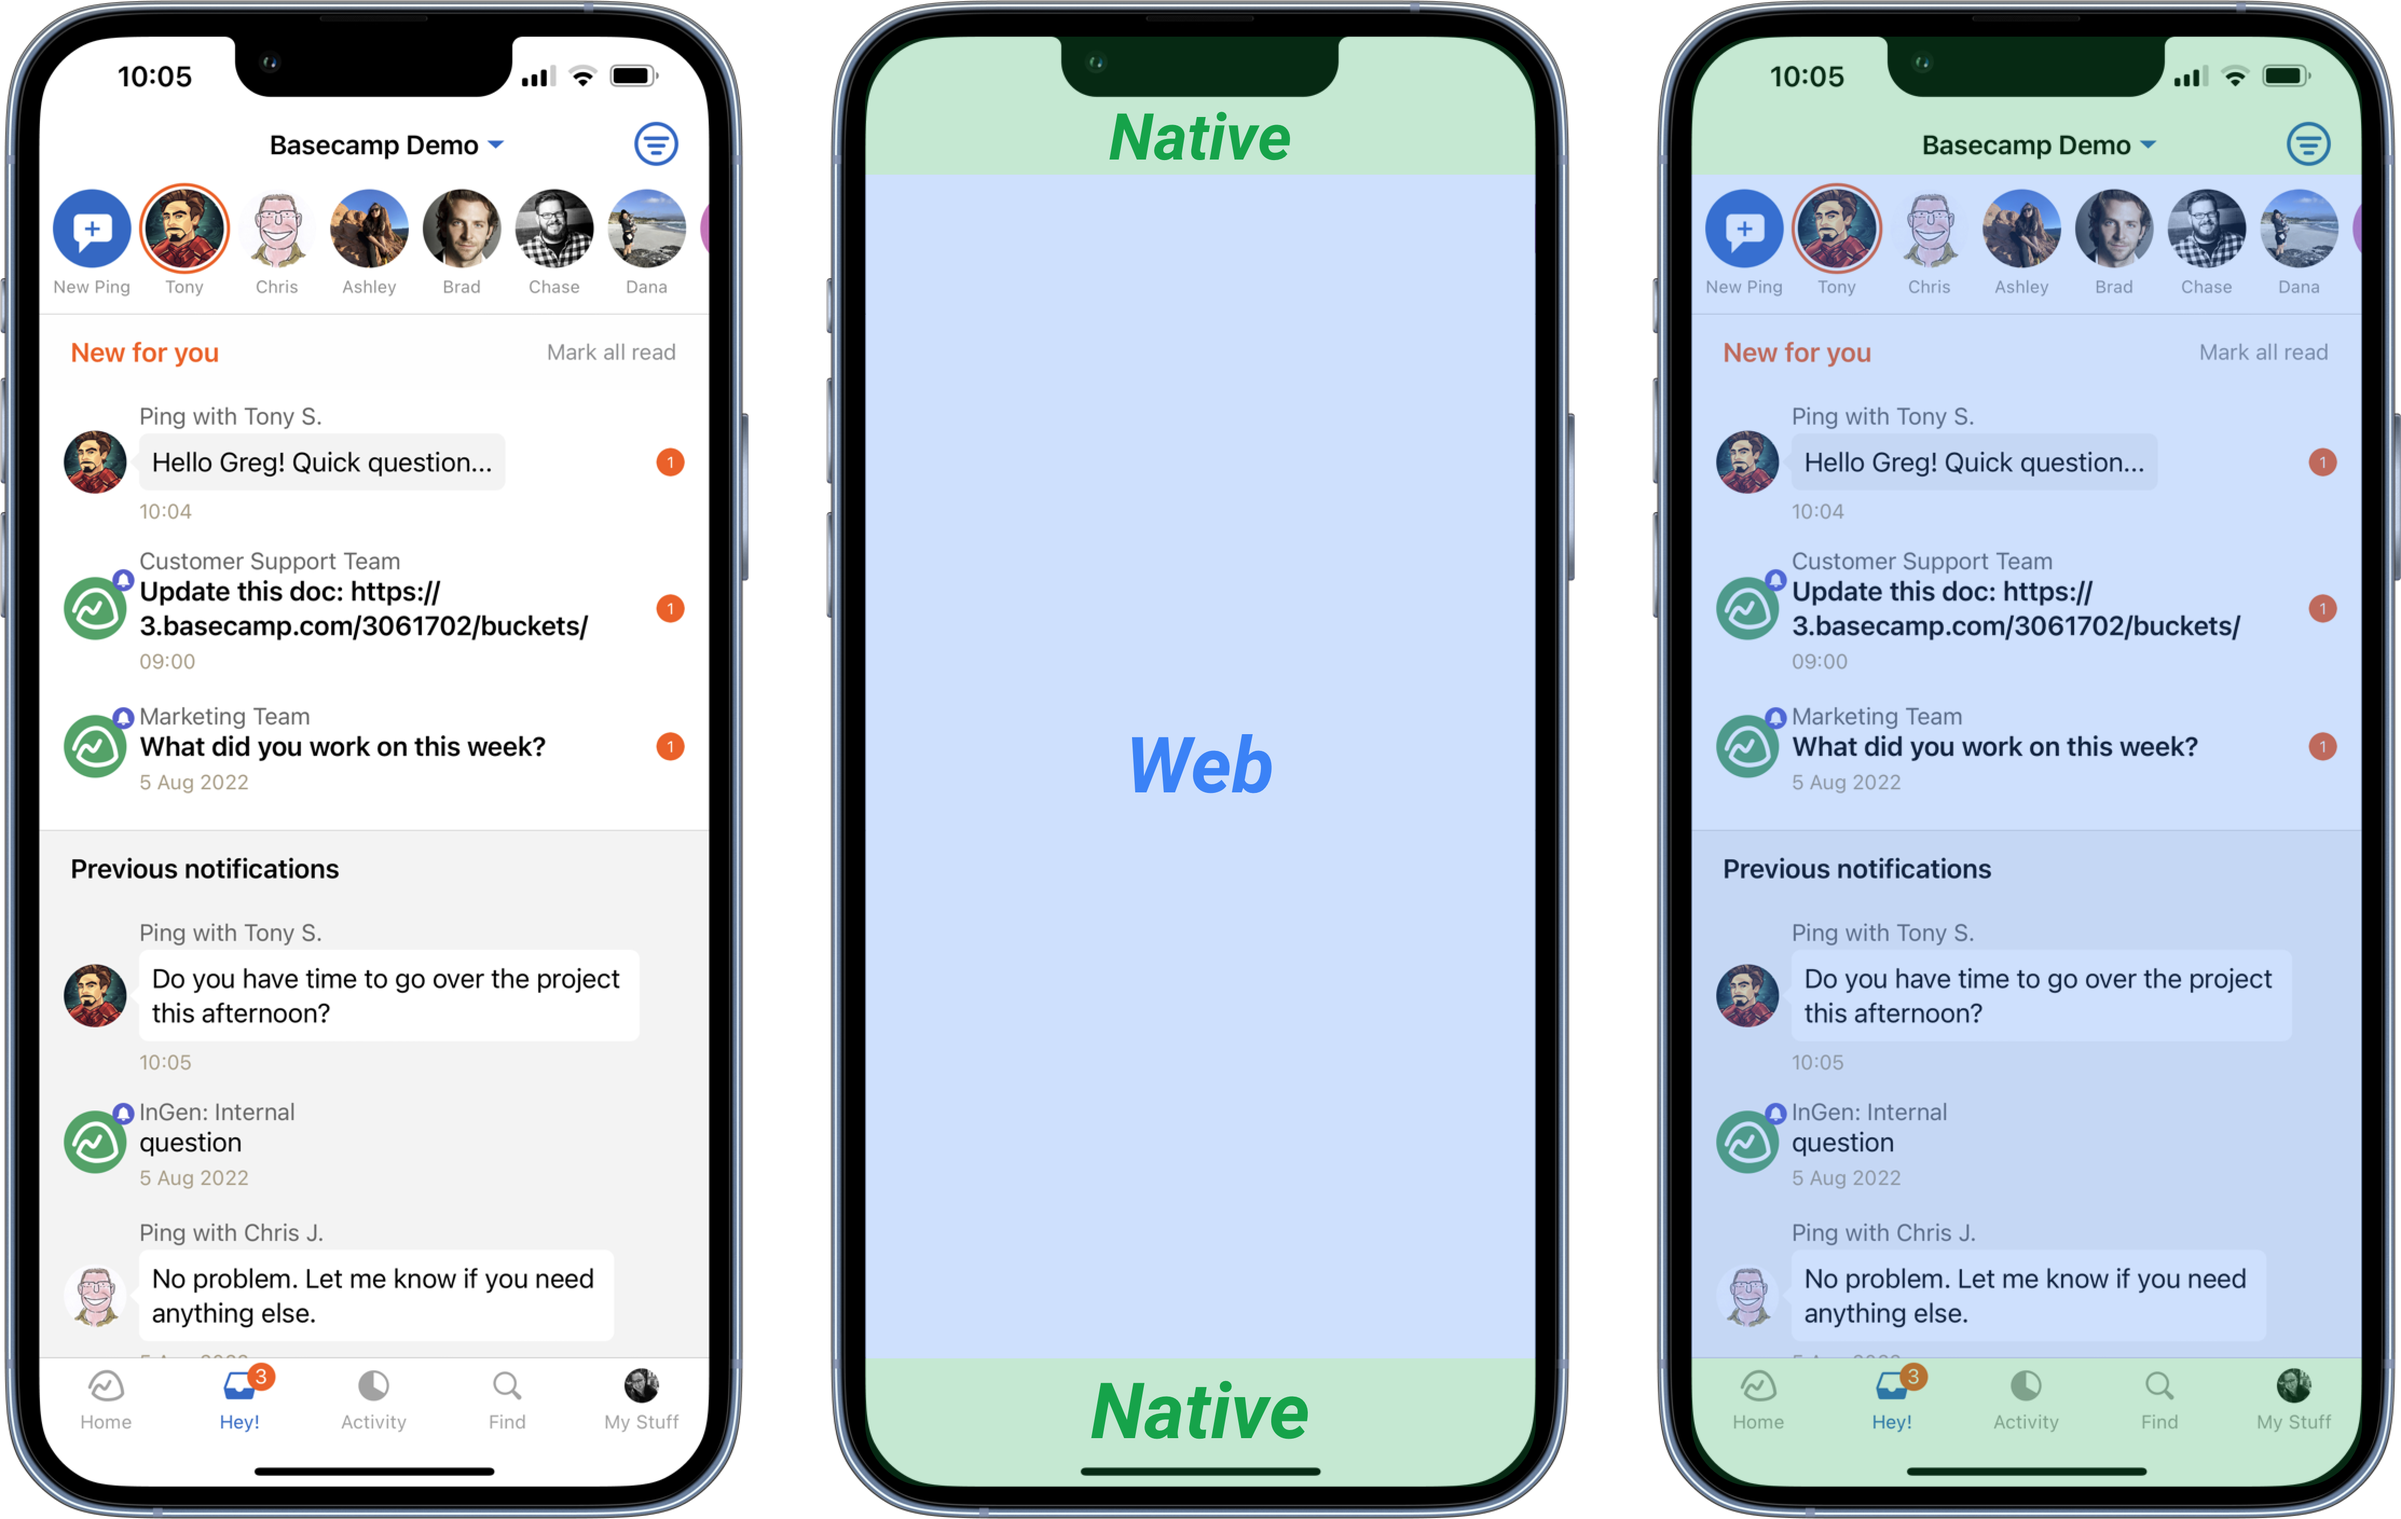
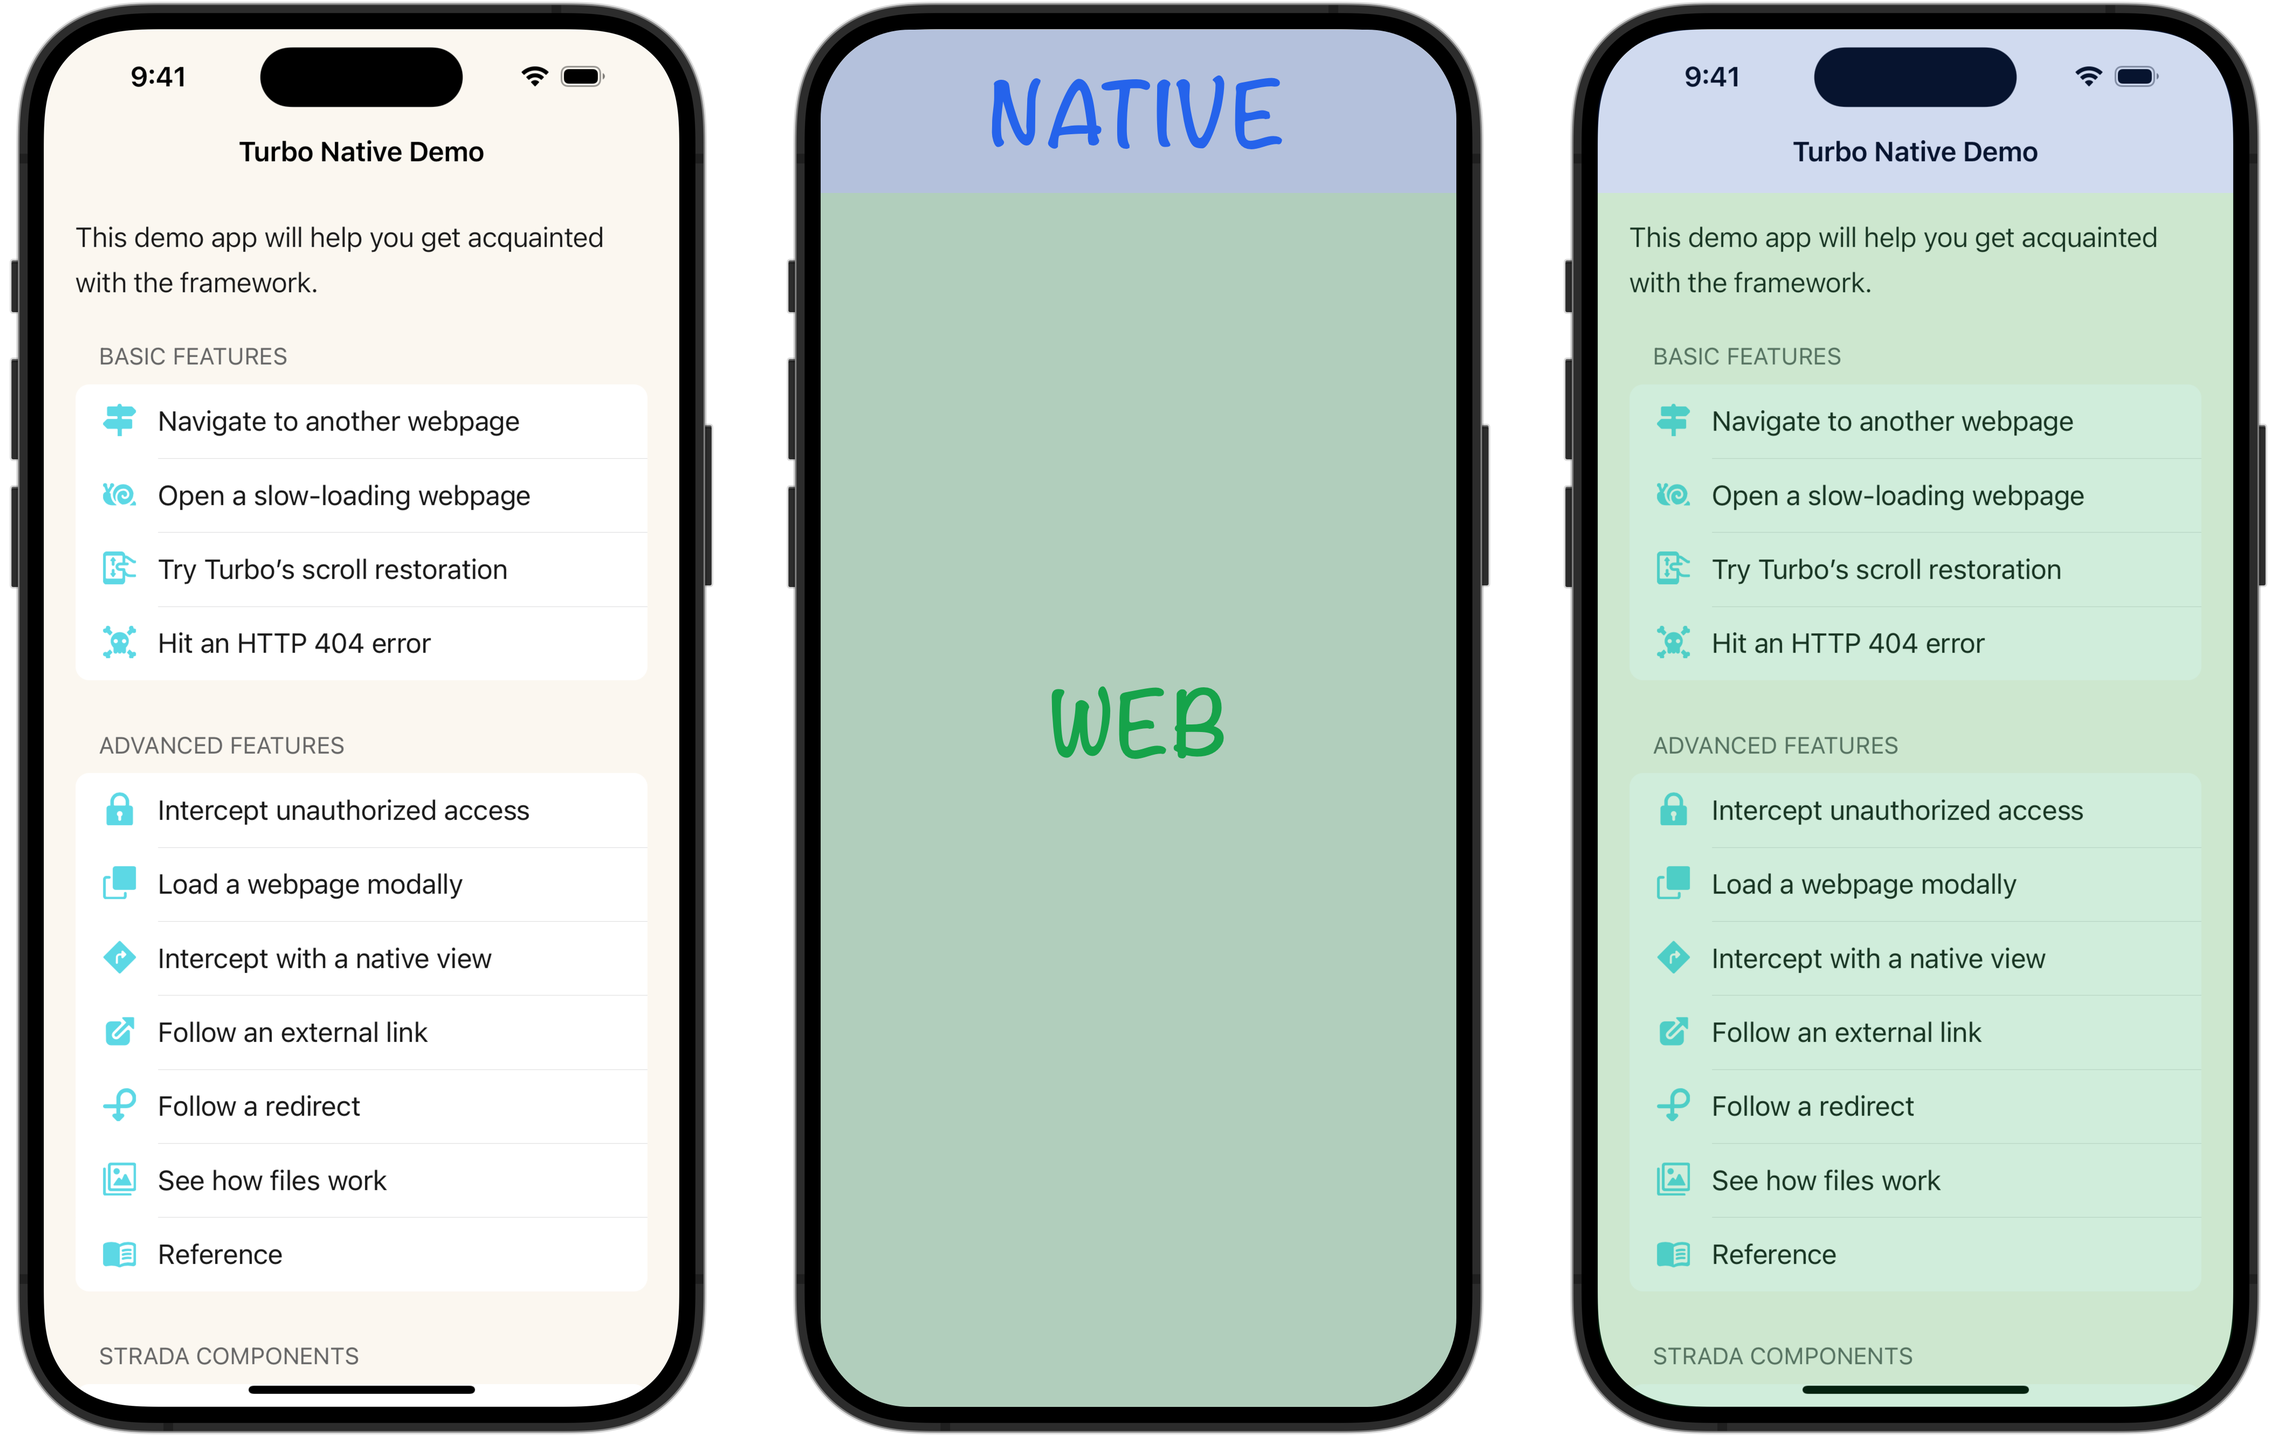
Add screenshots and clean up copy for Overview

diff --git a/_source/overview/01_how_it_works.md b/_source/overview/01_how_it_works.md
@@ -7,11 +7,11 @@ description: "How Hotwire Native renders web content in a native app."
 
 Hotwire Native makes your mobile web content feel at home on Android and iOS by using standard, platform-specific components and animations. To all but the most tech-savvy users, it will feel like a fully native app.
 
-Under the hood, it’s a glorified web browser. Hotwire Native displays whatever HTML and CSS your server renders. Here's an example from the Basecamp iOS app. Only the green content is native, everything else is from the web.
+Under the hood, it’s a glorified web browser. Hotwire Native displays whatever HTML and CSS your server renders. Here's an example from the demo iOS app. Only the blue content is native, everything else is from the web.
 
 <img src="/assets/native-vs-web.png" width="600" alt="Native vs. web">
 
-Basecamp Hotwire Native app on iOS
+Demo Hotwire Native app on iOS
 
 At its core, Hotwire Native intercepts link clicks and passes control off to a native adapter. This layer then pushes (or presents) new screens on the native stack with default, platform-specific animation. The request is then loaded and rendered via the web view.
 

diff --git a/_source/overview/02_basic_navigation.md b/_source/overview/02_basic_navigation.md
@@ -8,11 +8,12 @@ description: "How to navigate between pages in Hotwire Native."
 
 The main interaction in Hotwire Native apps is tapping on links. Like the web, every page can link to another.
 
-When a link is tapped Hotwire Native:
+1. Click a link.
+1. A new screen is pushed onto the navigation stack with a native animation.
+1. A spinner appears indicating the page is loading.
+1. The page contents render inside the web view.
 
-1. Pushes a new screen onto the navigation stack with a native animation.
-1. Shows a spinner to indicate the page is loading.
-1. Renders the page contents inside the web view.
+<img src="/assets/basic-navigation.png" width="800" alt="Basic navigation">
 
 ## Replacing Screens
 

diff --git a/_source/overview/04_native_components.md b/_source/overview/04_native_components.md
@@ -14,4 +14,6 @@ Strada acts a "bridge" between your web code and your native app code, letting y
 
 Example components include native buttons to submit forms, web dialogs rendered as a `UIActionSheet` on iOS or `BottomSheetDialog` on Android, and more.
 
+<img src="/assets/bridge-examples.png" width="600" alt="Basic navigation">
+
 Check out the [iOS](/ios/native-components)- and [Android](/android/native-components)-specific pages for information and code snippets.
